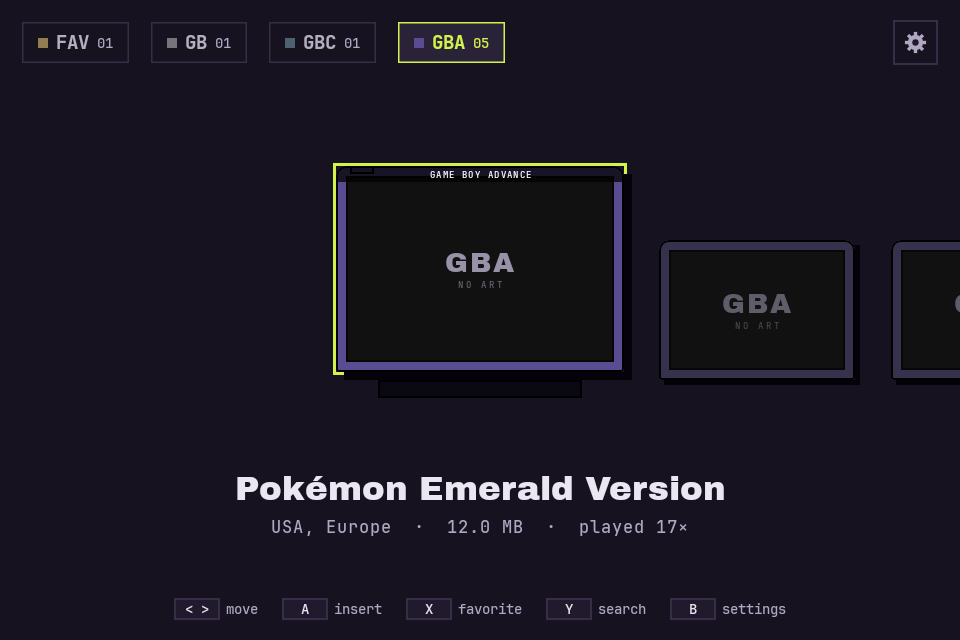
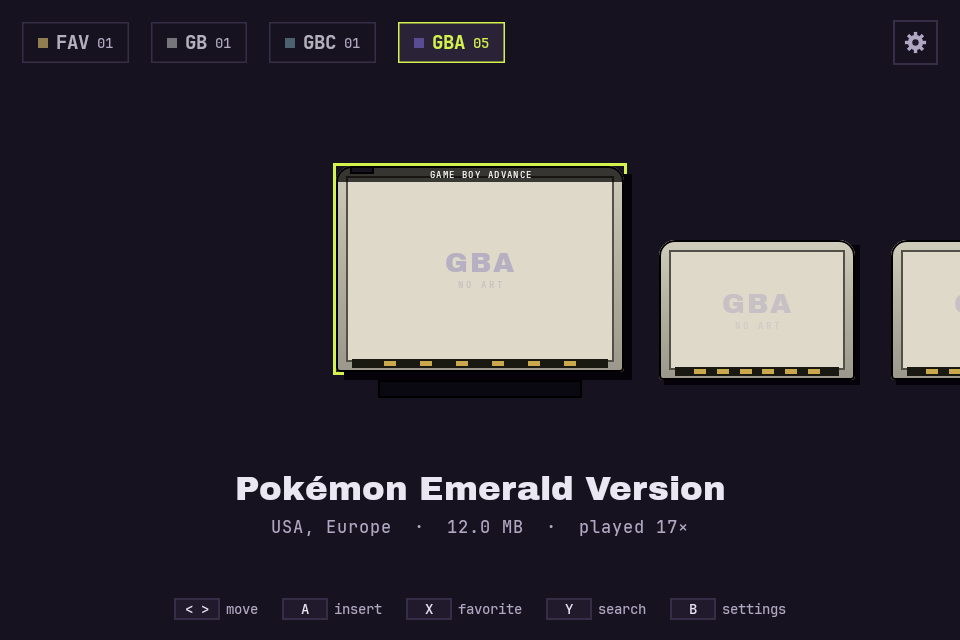
kartrid style C RetroShell: shell gradasi + label beige + boxart kecil + pin gold (dari referensi user)

Changed region(s): [[0.3438, 0.25, 0.6562, 0.5938], [0.6875, 0.375, 1.0, 0.5938]]

diff --git a/android/app/src/main/java/id/iqbaldev/kartrid/ui/Cartridge.kt b/android/app/src/main/java/id/iqbaldev/kartrid/ui/Cartridge.kt
@@ -3,8 +3,10 @@ package id.iqbaldev.kartrid.ui
 import androidx.compose.foundation.Image
 import androidx.compose.foundation.background
 import androidx.compose.foundation.border
+import androidx.compose.foundation.layout.Arrangement
 import androidx.compose.foundation.layout.Box
 import androidx.compose.foundation.layout.Column
+import androidx.compose.foundation.layout.Row
 import androidx.compose.foundation.layout.fillMaxSize
 import androidx.compose.foundation.layout.fillMaxWidth
 import androidx.compose.foundation.layout.height
@@ -37,12 +39,14 @@ import id.iqbaldev.kartrid.core.Sys
  * Kartrid GBA/GB: shell + notch + label boxart + band nama sistem.
  * `clipFrac` 0..1 = bagian bawah yang ketutup (animasi masuk slot, PLAN §3b).
  *
- * Dua style (probing 17 Okt 2026):
- * - A: kotak bersih, boxart FULL (Fit, nggak ke-crop), band + notch
- * - B: siluet kartrid GBA (atas rounded, bawah bevel) + kontak emas + shade halus
- * Kedua style pakai Fit biar art keliatan utuh & jelas.
+ * Tiga style (probing 17 Okt 2026):
+ * - A: kotak bersih, boxart FULL (Fit, nggak ke-crop)
+ * - B: siluet GBA (atas rounded, bawah bevel) + kontak emas + shade
+ * - C "RetroShell": shell abu gradasi rounded-top, label beige, boxart KECIL
+ *   (~46% lebar, nggak penuh) + pin kontak gold — simplifikasi dari referensi
+ *   kartrid retro (index.html/user, 17 Okt 2026). Semua style pakai Fit.
  */
-enum class CartStyle { A, B }
+enum class CartStyle { A, B, C }
 
 @Composable
 fun Cartridge(
@@ -55,16 +59,17 @@ fun Cartridge(
     clipFrac: Float = 0f,
     showNotch: Boolean = focused,
     showBand: Boolean = focused,
-    style: CartStyle = CartStyle.B,
+    style: CartStyle = CartStyle.C,
 ) {
     val outlineRoom = if (focused) 12f else 0f
-    val shape: Shape = when {
-        style == CartStyle.B ->
+    val shape: Shape = when (style) {
+        CartStyle.A -> if (sys.rounded) RoundedCornerShape(8.dp) else RectangleShape
+        CartStyle.B ->
             RoundedCornerShape(topStart = 10.dp, topEnd = 10.dp, bottomEnd = 3.dp, bottomStart = 3.dp)
-        sys.rounded -> RoundedCornerShape(8.dp)
-        else -> RectangleShape
+        CartStyle.C ->
+            RoundedCornerShape(topStart = 16.dp, topEnd = 16.dp, bottomEnd = 4.dp, bottomStart = 4.dp)
     }
-    val shell = shellColor(sys.shell, focused)
+    val shell: Color = shellColor(sys.shell, focused)
     val shadow = if (focused) 8f else 5f
 
     Box(modifier = modifier.size((w + outlineRoom).dp, (h + outlineRoom).dp)) {
@@ -100,68 +105,59 @@ fun Cartridge(
                     }
                 }
                 .clip(shape)
-                .background(shell)
+                .then(
+                    if (style == CartStyle.C) {
+                        Modifier.background(
+                            Brush.verticalGradient(
+                                listOf(Color(0xFFD0CDBC), Color(0xFFB4B0A0), Color(0xFF9B978B)),
+                            ),
+                        )
+                    } else {
+                        Modifier.background(shell)
+                    },
+                )
                 .border(2.dp, T.black, shape),
         ) {
-            // label + boxart (Fit = art utuh, nggak ke-crop)
+            // label + boxart
             Box(
                 Modifier
                     .fillMaxSize()
                     .padding(10.dp)
-                    .border(2.dp, Color(0x99000000))
-                    .background(T.labelBg),
+                    .border(2.dp, if (style == CartStyle.C) Color(0xB3171711) else Color(0x99000000))
+                    .background(if (style == CartStyle.C) Color(0xFFDED9C8) else T.labelBg),
             ) {
-                if (art != null) {
-                    Image(
-                        bitmap = art,
-                        contentDescription = null,
-                        modifier = Modifier.fillMaxSize(),
-                        contentScale = ContentScale.Fit,
-                        colorFilter = if (focused) null else ColorFilter.colorMatrix(dimMatrix()),
-                    )
-                    if (style == CartStyle.B) {
-                        // kontak emas ala kartrid GBA asli
-                        Box(
-                            Modifier
-                                .align(Alignment.BottomCenter)
-                                .padding(bottom = 6.dp)
-                                .width((w * 0.22f).dp)
-                                .height(9.dp)
-                                .background(Color(0xFFD9AE4E))
-                                .border(1.dp, Color(0x66000000)),
+                when {
+                    art == null -> PlaceholderView(sys, focused)
+                    style == CartStyle.C -> CartLabelC(sys, art, w, h, focused)
+                    else -> {
+                        Image(
+                            bitmap = art,
+                            contentDescription = null,
+                            modifier = Modifier.fillMaxSize(),
+                            contentScale = ContentScale.Fit,
+                            colorFilter = if (focused) null else ColorFilter.colorMatrix(dimMatrix()),
                         )
-                        // shade halus di atas label biar nggak flat
-                        Box(
-                            Modifier
-                                .fillMaxWidth()
-                                .height(26.dp)
-                                .background(
-                                    Brush.verticalGradient(
-                                        listOf(Color(0x33000000), Color(0x00000000)),
-                                    ),
-                                ),
-                        )
-                    }
-                } else {
-                    // placeholder: monogram sistem + caption (belum ada boxart)
-                    Box(
-                        Modifier.fillMaxSize(),
-                        contentAlignment = Alignment.Center,
-                    ) {
-                        Column(horizontalAlignment = Alignment.CenterHorizontally) {
-                            Text(
-                                text = sys.label,
-                                color = T.mutedFg.copy(alpha = if (focused) 0.85f else 0.5f),
-                                fontFamily = DISPLAY,
-                                fontSize = if (sys.rounded) 22.sp else 26.sp,
-                                letterSpacing = 2.sp,
+                        if (style == CartStyle.B) {
+                            Box(
+                                Modifier
+                                    .align(Alignment.BottomCenter)
+                                    .padding(bottom = 6.dp)
+                                    .width((w * 0.22f).dp)
+                                    .height(9.dp)
+                                    .background(Color(0xFFD9AE4E))
+                                    .border(1.dp, Color(0x66000000)),
                             )
-                            Text(
-                                text = "NO ART",
-                                color = T.mutedFg.copy(alpha = if (focused) 0.55f else 0.35f),
-                                fontFamily = MONO,
-                                fontSize = 7.5.sp,
-                                letterSpacing = 2.2.sp,
+                        }
+                        if (style == CartStyle.B) {
+                            Box(
+                                Modifier
+                                    .fillMaxWidth()
+                                    .height(26.dp)
+                                    .background(
+                                        Brush.verticalGradient(
+                                            listOf(Color(0x33000000), Color(0x00000000)),
+                                        ),
+                                    ),
                             )
                         }
                     }
@@ -189,6 +185,30 @@ fun Cartridge(
                 }
             }
 
+            // pin kontak gold ala PCB (style C, di bawah shell)
+            if (style == CartStyle.C) {
+                Box(
+                    Modifier
+                        .align(Alignment.BottomCenter)
+                        .fillMaxWidth()
+                        .padding(horizontal = 16.dp, vertical = 4.dp)
+                        .height(9.dp)
+                        .background(Color(0xFF191912)),
+                ) {
+                    Row(
+                        Modifier
+                            .fillMaxSize()
+                            .padding(horizontal = 8.dp),
+                        horizontalArrangement = Arrangement.SpaceEvenly,
+                        verticalAlignment = Alignment.CenterVertically,
+                    ) {
+                        repeat(6) {
+                            Box(Modifier.width(12.dp).height(5.dp).background(Color(0xFFC9A94B)))
+                        }
+                    }
+                }
+            }
+
             // notch / grip atas-kiri
             if (showNotch) {
                 Box(
@@ -199,6 +219,77 @@ fun Cartridge(
                         .border(2.dp, T.black),
                 )
             }
+        }
+    }
+}
+
+/** label beige + boxart kecil (nggak penuh) + teks mikro — style C */
+@Composable
+private fun CartLabelC(sys: Sys, art: ImageBitmap, w: Float, h: Float, focused: Boolean) {
+    Column(
+        Modifier
+            .fillMaxSize()
+            .padding(horizontal = 8.dp, vertical = 5.dp),
+        horizontalAlignment = Alignment.CenterHorizontally,
+        verticalArrangement = Arrangement.Center,
+    ) {
+        Text(
+            text = sys.longLabel,
+            color = Color(0xFF4A4230),
+            fontFamily = MONO,
+            fontSize = 5.4.sp,
+            letterSpacing = 1.2.sp,
+            maxLines = 1,
+        )
+        Box(
+            Modifier
+                .padding(vertical = 5.dp)
+                .width((w * 0.46f).dp)
+                .height((h * 0.5f).dp)
+                .border(1.5.dp, Color(0x99000000))
+                .background(Color(0xFF141414)),
+        ) {
+            Image(
+                bitmap = art,
+                contentDescription = null,
+                modifier = Modifier.fillMaxSize(),
+                contentScale = ContentScale.Fit,
+                colorFilter = if (focused) null else ColorFilter.colorMatrix(dimMatrix()),
+            )
+        }
+        Text(
+            text = "8-BIT · ${sys.ext.uppercase()}",
+            color = Color(0xFF4A4230),
+            fontFamily = MONO,
+            fontSize = 4.4.sp,
+            letterSpacing = 1.1.sp,
+            maxLines = 1,
+        )
+    }
+}
+
+/** placeholder: monogram sistem + caption (belum ada boxart) */
+@Composable
+private fun PlaceholderView(sys: Sys, focused: Boolean) {
+    Box(
+        Modifier.fillMaxSize(),
+        contentAlignment = Alignment.Center,
+    ) {
+        Column(horizontalAlignment = Alignment.CenterHorizontally) {
+            Text(
+                text = sys.label,
+                color = T.mutedFg.copy(alpha = if (focused) 0.85f else 0.5f),
+                fontFamily = DISPLAY,
+                fontSize = if (sys.rounded) 22.sp else 26.sp,
+                letterSpacing = 2.sp,
+            )
+            Text(
+                text = "NO ART",
+                color = T.mutedFg.copy(alpha = if (focused) 0.55f else 0.35f),
+                fontFamily = MONO,
+                fontSize = 7.5.sp,
+                letterSpacing = 2.2.sp,
+            )
         }
     }
 }

diff --git a/android/app/src/test/java/id/iqbaldev/kartrid/PreviewTest.kt b/android/app/src/test/java/id/iqbaldev/kartrid/PreviewTest.kt
@@ -128,6 +128,24 @@ class PreviewTest {
     }
 
     @Test
+    fun cartStyleCPreview() {
+        captureRoboImage("/home/iqbaladinur/hobbies/kartrid/previews/10-cart-style-C.png") {
+            MockCanvas {
+                Box(Modifier.fillMaxSize(), contentAlignment = Alignment.Center) {
+                    Cartridge(
+                        sys = Sys.GBA,
+                        art = art("gba_Pokemon_-_Emerald_Version__USA__Europe_.png"),
+                        w = 288f,
+                        h = 206f,
+                        focused = true,
+                        style = CartStyle.C,
+                    )
+                }
+            }
+        }
+    }
+
+    @Test
     fun settingsPreview() {
         captureRoboImage("/home/iqbaladinur/hobbies/kartrid/previews/02-settings.png") {
             MockCanvas {
